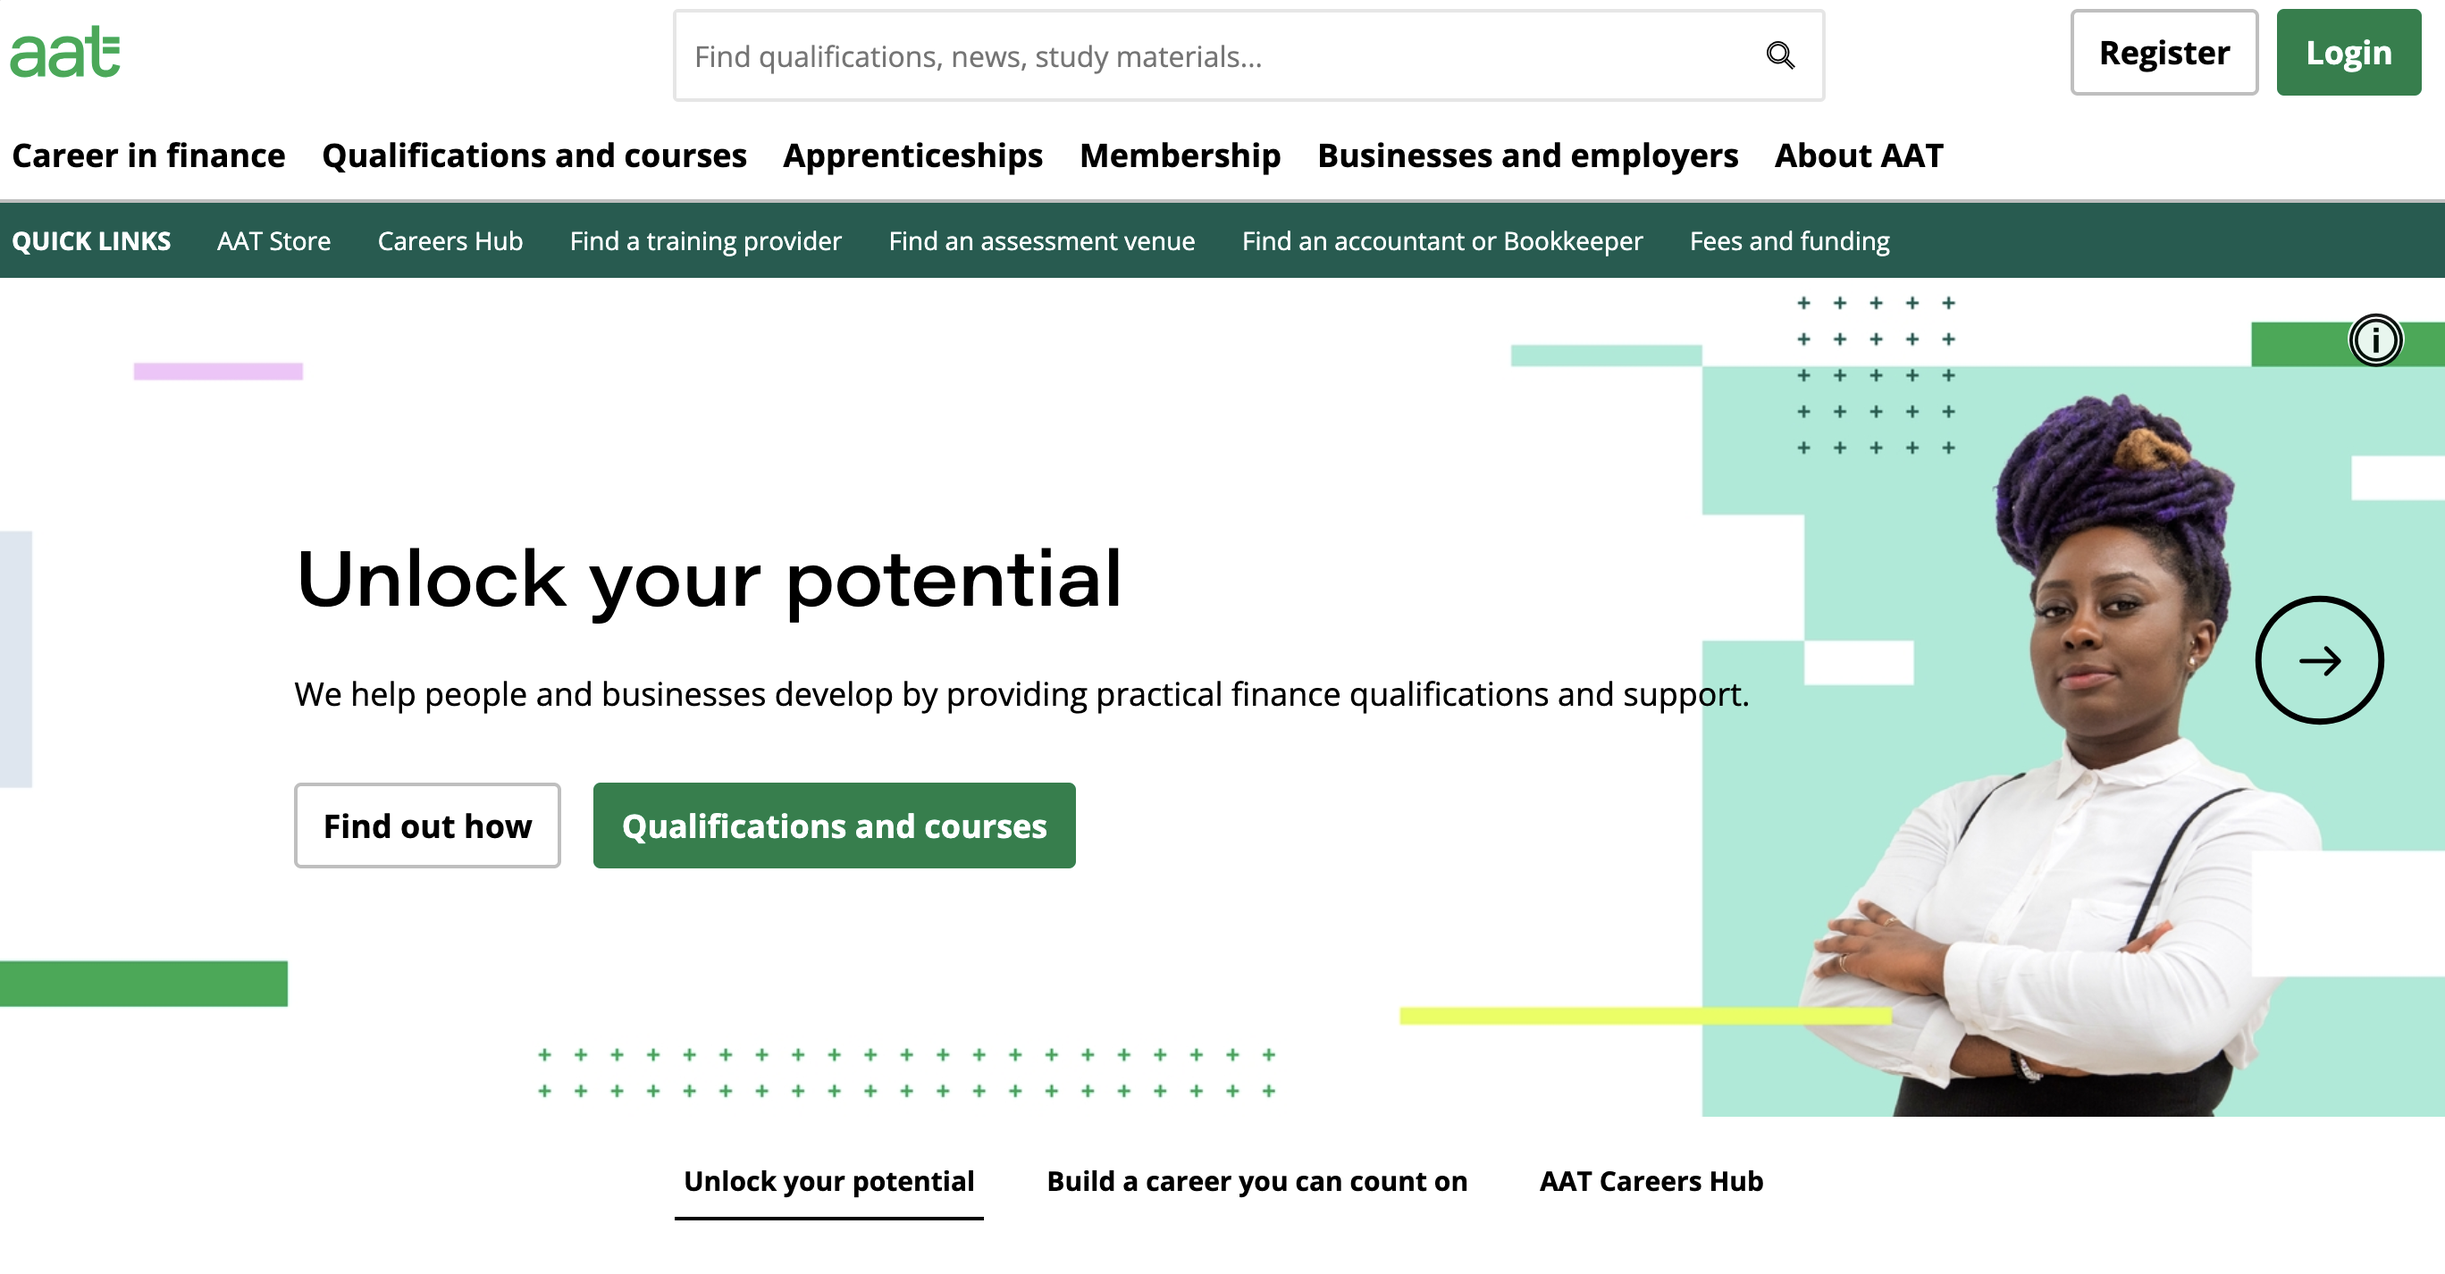
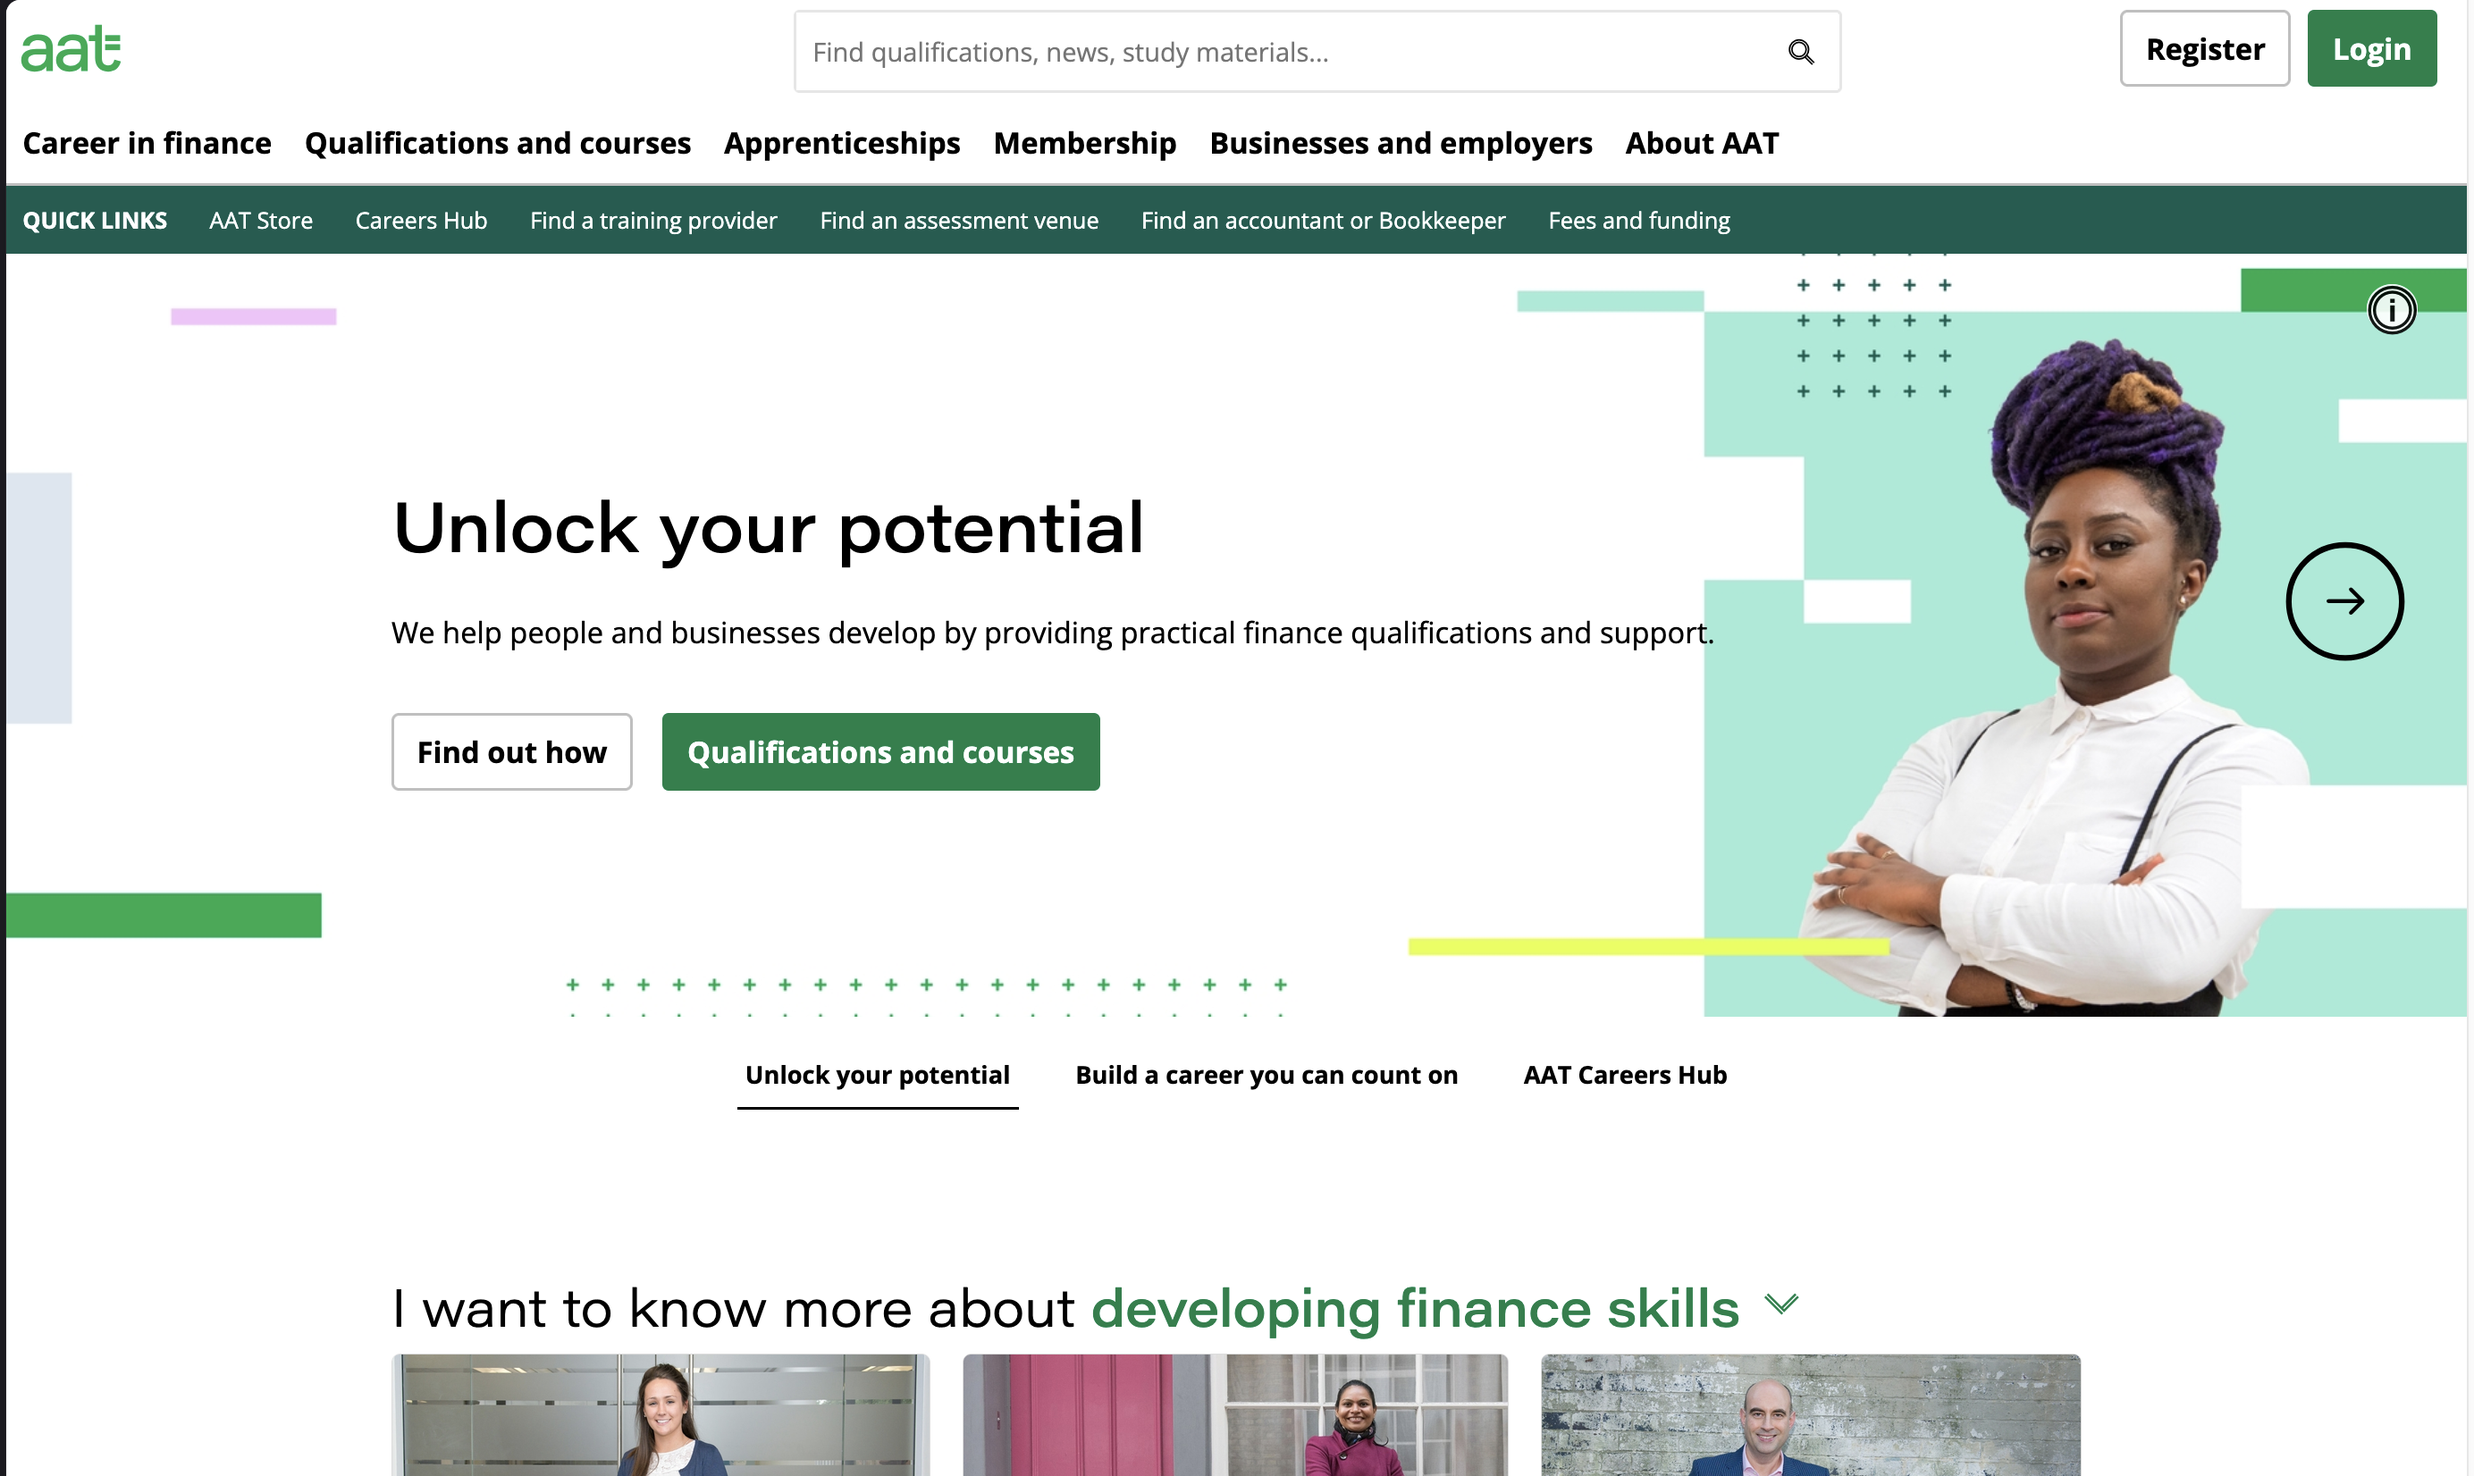
addded about photo, updated how I got here cards

diff --git a/about.html b/about.html
@@ -67,10 +67,13 @@
     <section class="about-pg-hero" aria-label="About Tanhya">
       <div class="container about-pg-hero-container">
 
-        <!-- LEFT: photo placeholder -->
-        <div class="about-pg-photo-wrap animate-on-scroll" aria-hidden="true">
+        <!-- LEFT: photo -->
+        <div class="about-pg-photo-wrap animate-on-scroll">
           <div class="about-pg-photo-circle">
-            <span>Photo<br />coming soon</span>
+            <img
+              src="images/about-image.png"
+              alt="Tanhya Bascombe, UX Designer"
+            />
           </div>
           <div class="about-pg-photo-ring"></div>
         </div>
@@ -128,7 +131,7 @@
 
         <div class="about-pg-cards-grid">
 
-          <article class="about-pg-card animate-on-scroll">
+          <article class="about-pg-card animate-on-scroll" style="border-top: 3px solid #b85c8a;">
             <h3 class="about-pg-card-title">Understanding People</h3>
             <p class="about-pg-card-text">
               At the core of my journey is a deep understanding of people. My customer-focused
@@ -137,7 +140,7 @@
             </p>
           </article>
 
-          <article class="about-pg-card animate-on-scroll">
+          <article class="about-pg-card animate-on-scroll" style="border-top: 3px solid #3d8c6a;">
             <h3 class="about-pg-card-title">Curiosity and Creativity</h3>
             <p class="about-pg-card-text">
               Moments of inspiration led my curiosity and creativity to flourish. I found myself
@@ -147,7 +150,7 @@
             </p>
           </article>
 
-          <article class="about-pg-card animate-on-scroll">
+          <article class="about-pg-card animate-on-scroll" style="border-top: 3px solid #4a6db8;">
             <h3 class="about-pg-card-title">From Introvert to Innovator</h3>
             <p class="about-pg-card-text">
               As a member of the neurodivergent community and an introvert, I faced challenges in
@@ -157,7 +160,7 @@
             </p>
           </article>
 
-          <article class="about-pg-card animate-on-scroll">
+          <article class="about-pg-card animate-on-scroll" style="border-top: 3px solid #b85c8a;">
             <h3 class="about-pg-card-title">Every Step Matters</h3>
             <p class="about-pg-card-text">
               Reflecting on my journey, I see that every role and project has been essential to my
@@ -188,7 +191,7 @@
           <img src="images/about-photo-9.png"  alt="Tanhya travel photo 9"  class="about-pg-masonry-img" />
           <img src="images/about-photo-10.png" alt="Tanhya travel photo 10" class="about-pg-masonry-img" />
           <img src="images/about-photo-11.png" alt="Tanhya travel photo 11" class="about-pg-masonry-img" />
-          <img src="images/about-photo-12.png" alt="Tanhya travel photo 12" class="about-pg-masonry-img" />
+          <img src="images/about-photo-12.png" alt="" class="about-pg-masonry-img" />
         </div>
       </div>
     </section>

diff --git a/style.css b/style.css
@@ -629,7 +629,7 @@ main {
 .project-wide-image {
   position: relative;
   overflow: hidden;
-  min-height: 260px;
+  min-height: 240px;
   border-left: 1px solid var(--border);
 }
 
@@ -639,7 +639,7 @@ main {
   width: 100%;
   height: 100%;
   object-fit: cover;
-  object-position: top;
+  object-position: 0% 15%;
   display: block;
 }
 
@@ -749,17 +749,20 @@ main {
   width: 320px;
   height: 320px;
   border-radius: 50%;
-  background: var(--bg-alt);
-  border: 1px solid var(--border);
-  display: flex;
-  align-items: center;
-  justify-content: center;
+  overflow: hidden;
+  border: 3px solid #f0dbe8;
+  box-shadow: 0 8px 32px rgba(184, 92, 138, 0.12);
   z-index: 1;
   position: relative;
-  font-size: 0.875rem;
-  color: var(--text-muted);
-  text-align: center;
-  line-height: 1.5;
+}
+
+.about-pg-photo-circle img {
+  width: 100%;
+  height: 100%;
+  object-fit: cover;
+  object-position: center top;
+  display: block;
+  border-radius: 50%;
 }
 
 .about-pg-photo-ring {
@@ -825,7 +828,22 @@ main {
   border: 1px solid var(--border);
   border-radius: var(--radius-lg);
   padding: 32px;
+  transition: transform 0.3s ease, box-shadow 0.3s ease;
+  cursor: default;
 }
+
+.about-pg-card:hover {
+  transform: translateY(-6px);
+  box-shadow: 0 12px 32px rgba(0, 0, 0, 0.08);
+}
+
+/* Staggered scroll-in delay per card */
+.about-pg-cards-grid .about-pg-card:nth-child(2) { transition-delay: 0.15s; }
+.about-pg-cards-grid .about-pg-card:nth-child(3) { transition-delay: 0.30s; }
+.about-pg-cards-grid .about-pg-card:nth-child(4) { transition-delay: 0.45s; }
+
+/* Reset delay on hover so the lift is instant */
+.about-pg-card:hover { transition-delay: 0s; }
 
 .about-pg-card-title {
   font-family: var(--font-heading);
